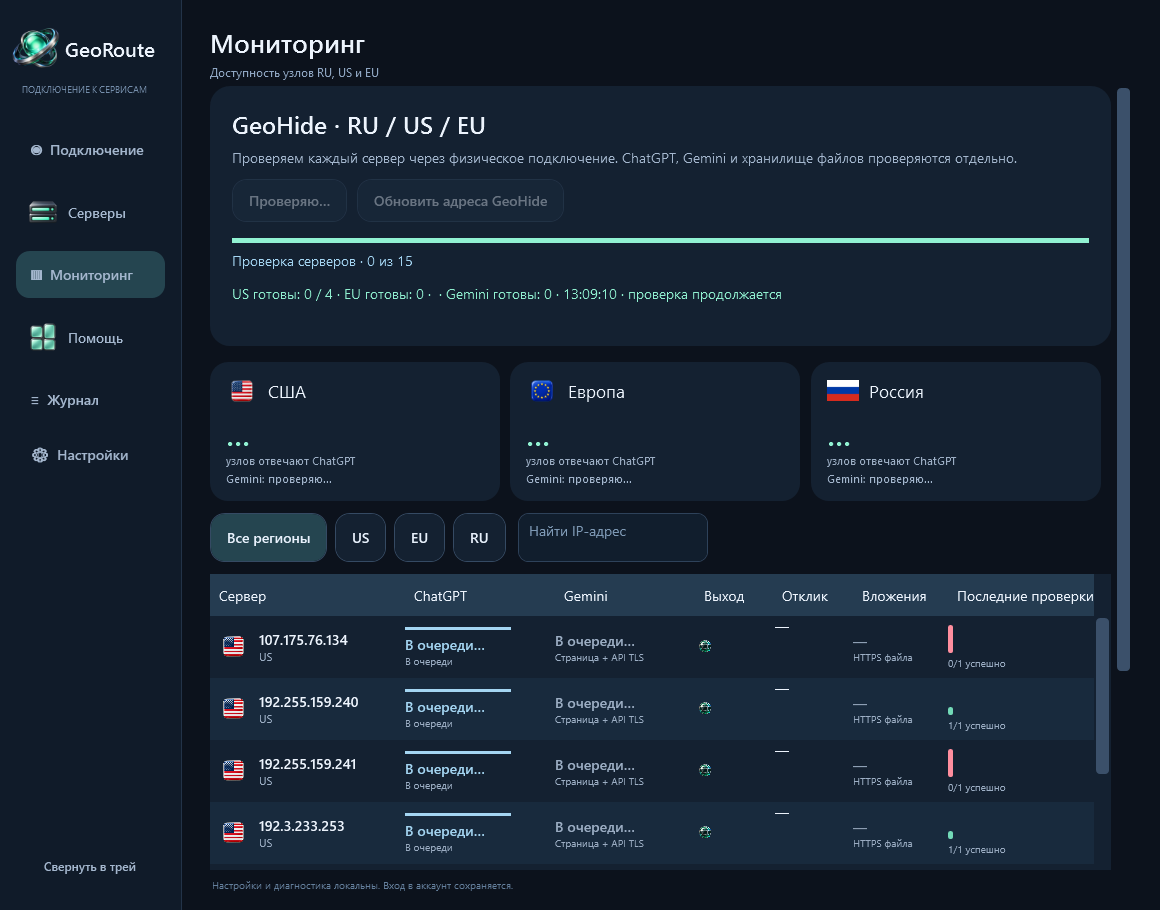
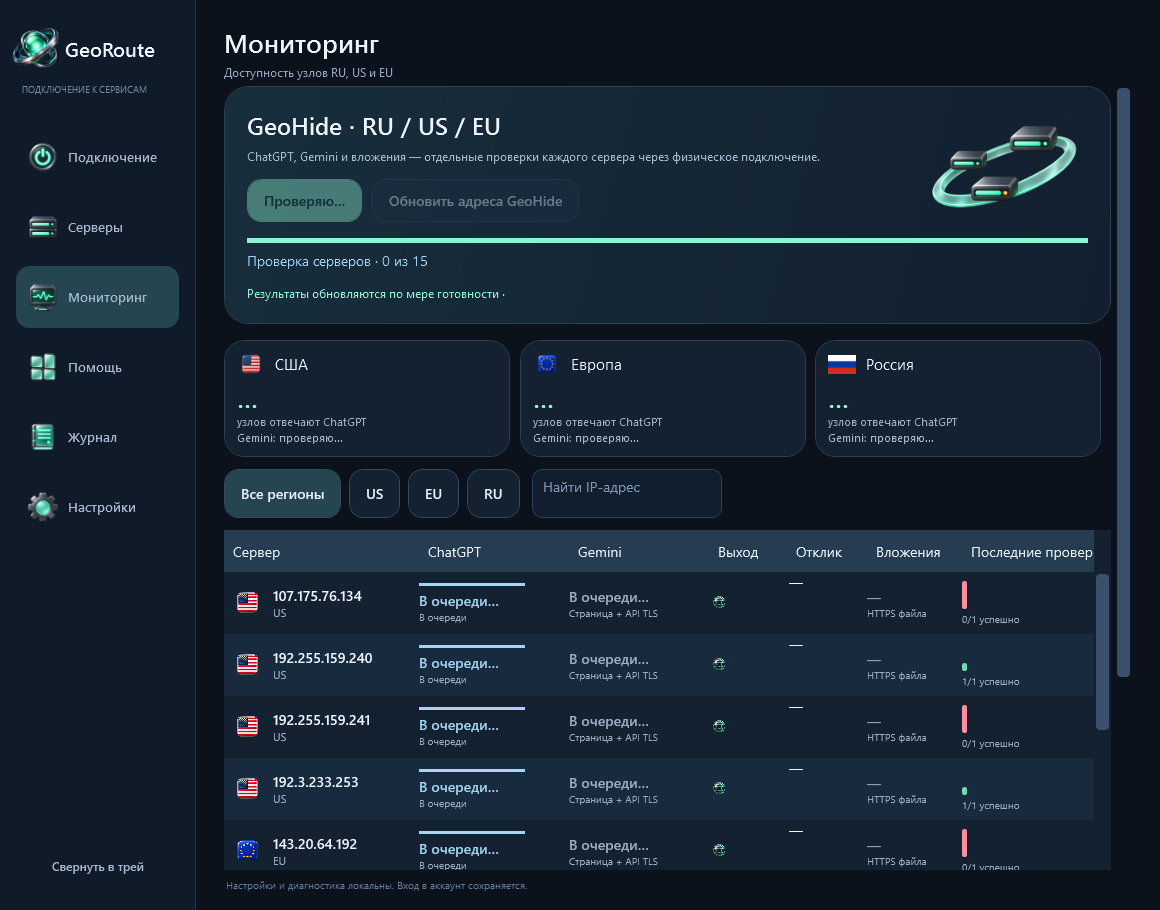
GeoRoute 0.4.0: Image Gen navigation assets and refined screens

diff --git a/clients/windows/_service/Window.xaml b/clients/windows/_service/Window.xaml
@@ -65,6 +65,7 @@
       <Setter Property="FontSize" Value="12" />
     </Style>
     <Style x:Key="NavButton" TargetType="Button" BasedOn="{StaticResource ActionButton}">
+      <Setter Property="FontSize" Value="13"/>
       <Setter Property="Background" Value="Transparent" />
       <Setter Property="BorderBrush" Value="Transparent" />
       <Setter Property="Foreground" Value="#A4B7CE" />
@@ -162,10 +163,35 @@
         </Setter.Value>
       </Setter>
     </Style>
+    <Style x:Key="PageCard" TargetType="Border">
+      <Setter Property="CornerRadius" Value="24"/><Setter Property="Padding" Value="22"/>
+      <Setter Property="BorderBrush" Value="#2A4256"/><Setter Property="BorderThickness" Value="1"/>
+      <Setter Property="Background"><Setter.Value><LinearGradientBrush StartPoint="0,0" EndPoint="1,1"><GradientStop Color="#182E3C" Offset="0"/><GradientStop Color="#121F30" Offset="1"/></LinearGradientBrush></Setter.Value></Setter>
+    </Style>
+    <Style x:Key="SettingsToggle" TargetType="CheckBox">
+      <Setter Property="Foreground" Value="#E1ECF7"/><Setter Property="FontSize" Value="13"/>
+      <Setter Property="Cursor" Value="Hand"/><Setter Property="Margin" Value="0,5"/>
+      <Setter Property="Template"><Setter.Value><ControlTemplate TargetType="CheckBox">
+        <Border x:Name="ToggleSurface" Background="#132332" BorderBrush="#2B4054" BorderThickness="1" CornerRadius="14" Padding="15,14">
+          <Grid><Grid.ColumnDefinitions><ColumnDefinition Width="*"/><ColumnDefinition Width="Auto"/></Grid.ColumnDefinitions>
+            <ContentPresenter VerticalAlignment="Center" Margin="0,0,16,0"/>
+            <Border x:Name="Track" Grid.Column="1" Width="44" Height="24" CornerRadius="12" Background="#35495C">
+              <Ellipse x:Name="Thumb" Width="16" Height="16" Margin="4" HorizontalAlignment="Left" Fill="#D9E8F6"/>
+            </Border>
+          </Grid>
+        </Border>
+        <ControlTemplate.Triggers>
+          <Trigger Property="IsChecked" Value="True"><Setter TargetName="Track" Property="Background" Value="#91F2D2"/><Setter TargetName="Thumb" Property="HorizontalAlignment" Value="Right"/><Setter TargetName="Thumb" Property="Fill" Value="#173A35"/></Trigger>
+          <Trigger Property="IsMouseOver" Value="True"><Setter TargetName="ToggleSurface" Property="BorderBrush" Value="#537D88"/></Trigger>
+          <Trigger Property="IsKeyboardFocused" Value="True"><Setter TargetName="ToggleSurface" Property="BorderBrush" Value="#91F2D2"/></Trigger>
+          <Trigger Property="IsEnabled" Value="False"><Setter TargetName="ToggleSurface" Property="Opacity" Value="0.45"/></Trigger>
+        </ControlTemplate.Triggers>
+      </ControlTemplate></Setter.Value></Setter>
+    </Style>
   </Window.Resources>
   <Grid x:Name="PageRoot" Background="#0C121C">
     <Grid.ColumnDefinitions>
-      <ColumnDefinition Width="182" />
+      <ColumnDefinition Width="196" />
       <ColumnDefinition Width="*" />
     </Grid.ColumnDefinitions>
     <Border Background="#101B29" BorderBrush="#233348" BorderThickness="0,0,1,0">
@@ -184,7 +210,15 @@
           <TextBlock Text="ПОДКЛЮЧЕНИЕ К СЕРВИСАМ" Foreground="#738CA9" FontSize="9" Margin="7,10,0,0" />
         </StackPanel>
         <StackPanel Grid.Row="1">
-          <Button x:Name="HomeNavButton" Style="{StaticResource NavButton}" Content="◉  Подключение" />
+          <Button x:Name="HomeNavButton" Style="{StaticResource NavButton}" AutomationProperties.Name="Подключение">
+            <StackPanel Orientation="Horizontal">
+              <Grid Width="34" Height="34" Margin="-4,0,8,0">
+                <TextBlock x:Name="HomeNavFallback" Text="◉" FontSize="20" HorizontalAlignment="Center" VerticalAlignment="Center"/>
+                <Image x:Name="HomeNavIcon" Width="34" Height="34"/>
+              </Grid>
+              <TextBlock Text="Подключение" VerticalAlignment="Center"/>
+            </StackPanel>
+          </Button>
           <Button x:Name="ServersNavButton" Style="{StaticResource NavButton}" AutomationProperties.Name="Список серверов">
             <StackPanel Orientation="Horizontal">
               <Grid Width="34" Height="34" Margin="-4,0,8,0">
@@ -194,7 +228,15 @@
               <TextBlock Text="Серверы" VerticalAlignment="Center" />
             </StackPanel>
           </Button>
-          <Button x:Name="MonitorNavButton" Style="{StaticResource NavButton}" Content="▥  Мониторинг" AutomationProperties.Name="Мониторинг серверов" />
+          <Button x:Name="MonitorNavButton" Style="{StaticResource NavButton}" AutomationProperties.Name="Мониторинг">
+            <StackPanel Orientation="Horizontal">
+              <Grid Width="34" Height="34" Margin="-4,0,8,0">
+                <TextBlock x:Name="MonitorNavFallback" Text="▥" FontSize="20" HorizontalAlignment="Center" VerticalAlignment="Center"/>
+                <Image x:Name="MonitorNavIcon" Width="34" Height="34"/>
+              </Grid>
+              <TextBlock Text="Мониторинг" VerticalAlignment="Center"/>
+            </StackPanel>
+          </Button>
           <Button x:Name="OverviewNavButton" Style="{StaticResource NavButton}" AutomationProperties.Name="Обзор подключения">
             <StackPanel Orientation="Horizontal">
               <Grid Width="34" Height="34" Margin="-4,0,8,0">
@@ -204,8 +246,24 @@
               <TextBlock Text="Помощь" VerticalAlignment="Center" />
             </StackPanel>
           </Button>
-          <Button x:Name="JournalNavButton" Style="{StaticResource NavButton}" Content="≡  Журнал" />
-          <Button x:Name="SettingsNavButton" Style="{StaticResource NavButton}" Content="⚙  Настройки" />
+          <Button x:Name="JournalNavButton" Style="{StaticResource NavButton}" AutomationProperties.Name="Журнал">
+            <StackPanel Orientation="Horizontal">
+              <Grid Width="34" Height="34" Margin="-4,0,8,0">
+                <TextBlock x:Name="JournalNavFallback" Text="≡" FontSize="20" HorizontalAlignment="Center" VerticalAlignment="Center"/>
+                <Image x:Name="JournalNavIcon" Width="34" Height="34"/>
+              </Grid>
+              <TextBlock Text="Журнал" VerticalAlignment="Center"/>
+            </StackPanel>
+          </Button>
+          <Button x:Name="SettingsNavButton" Style="{StaticResource NavButton}" AutomationProperties.Name="Настройки">
+            <StackPanel Orientation="Horizontal">
+              <Grid Width="34" Height="34" Margin="-4,0,8,0">
+                <TextBlock x:Name="SettingsNavFallback" Text="⚙" FontSize="20" HorizontalAlignment="Center" VerticalAlignment="Center"/>
+                <Image x:Name="SettingsNavIcon" Width="34" Height="34"/>
+              </Grid>
+              <TextBlock Text="Настройки" VerticalAlignment="Center"/>
+            </StackPanel>
+          </Button>
         </StackPanel>
         <StackPanel Grid.Row="3">
           <Button x:Name="HideToTrayButton" Content="Свернуть в трей" Style="{StaticResource QuietButton}" Margin="0,0,0,8" />
@@ -354,54 +412,58 @@
       </ScrollViewer>
       <ScrollViewer x:Name="GeoPage" Grid.Row="1" Grid.RowSpan="3" Visibility="Collapsed" VerticalScrollBarVisibility="Auto">
         <StackPanel Margin="0,0,4,20">
-          <Border Background="#142131" CornerRadius="20" Padding="22" Margin="0,0,0,16">
+          <Border Style="{StaticResource PageCard}" Margin="0,0,0,16">
             <StackPanel>
-              <TextBlock Text="GeoHide · RU / US / EU" FontSize="24" FontWeight="SemiBold" />
-              <TextBlock Text="Проверяем каждый сервер через физическое подключение. ChatGPT, Gemini и хранилище файлов проверяются отдельно." TextWrapping="Wrap" Foreground="#A4B7CE" Margin="0,8,0,12" />
-              <WrapPanel>
-                <Button x:Name="GeoCheck" Content="Проверить серверы" Style="{StaticResource ActionButton}" Margin="0,0,10,8" />
-                <Button x:Name="GeoRefresh" Content="Обновить адреса GeoHide" Style="{StaticResource ActionButton}" Margin="0,0,10,8" />
-              </WrapPanel>
-              <StackPanel x:Name="GeoProgressPanel" Visibility="Collapsed" Margin="0,8,0,6" AutomationProperties.LiveSetting="Polite">
-                <ProgressBar x:Name="GeoProgress" IsIndeterminate="True" Height="5" Foreground="#91F2D2" Background="#253C51" BorderThickness="0" />
-                <TextBlock x:Name="GeoProgressText" Text="Начинаю проверку…" Foreground="#A4D5F2" Margin="0,8,0,0" TextWrapping="Wrap" />
+              <Grid><Grid.ColumnDefinitions><ColumnDefinition Width="*"/><ColumnDefinition Width="175"/></Grid.ColumnDefinitions>
+                <StackPanel VerticalAlignment="Center">
+                  <TextBlock Text="GeoHide · RU / US / EU" FontSize="24" FontWeight="SemiBold"/>
+                  <TextBlock Text="ChatGPT, Gemini и вложения — отдельные проверки каждого сервера через физическое подключение." TextWrapping="Wrap" Foreground="#A4B7CE" Margin="0,8,12,15" FontSize="12"/>
+                  <WrapPanel>
+                    <Button x:Name="GeoCheck" Content="Проверить серверы" Style="{StaticResource ActionButton}" Background="#91F2D2" Foreground="#11372F" BorderBrush="#91F2D2" Margin="0,0,10,6"/>
+                    <Button x:Name="GeoRefresh" Content="Обновить адреса GeoHide" Style="{StaticResource ActionButton}" Margin="0,0,0,6"/>
+                  </WrapPanel>
+                </StackPanel>
+                <Image x:Name="GeoHeaderArt" Grid.Column="1" Height="112" Width="165" IsHitTestVisible="False" Margin="0,0,-6,0"/>
+              </Grid>
+              <StackPanel x:Name="GeoProgressPanel" Visibility="Collapsed" Margin="0,10,0,6" AutomationProperties.LiveSetting="Polite">
+                <ProgressBar x:Name="GeoProgress" IsIndeterminate="True" Height="5" Foreground="#91F2D2" Background="#253C51" BorderThickness="0"/>
+                <TextBlock x:Name="GeoProgressText" Text="Начинаю проверку…" Foreground="#A4D5F2" Margin="0,8,0,0" TextWrapping="Wrap"/>
               </StackPanel>
-              <TextBlock x:Name="GeoStatus" Text="Ожидание проверки" TextWrapping="Wrap" Foreground="#91F2D2" Margin="0,8,0,8" />
-              <TextBlock x:Name="GeoSourceStatus" Text="Списки: официальный репозиторий GeoHide; обновление раз в час" TextWrapping="Wrap" Foreground="#9CAEC4" FontSize="11" />
+              <TextBlock x:Name="GeoStatus" Text="Ожидание проверки" TextWrapping="Wrap" Foreground="#91F2D2" FontSize="12" Margin="0,10,0,0"/>
             </StackPanel>
           </Border>
           <UniformGrid Columns="3" Margin="0,0,0,12">
-            <Border Background="#142131" CornerRadius="18" Padding="16" Margin="0,0,10,0">
+            <Border BorderBrush="#2B4054" BorderThickness="1" Background="#142131" CornerRadius="20" Padding="12" Margin="0,0,10,0">
               <StackPanel>
                 <StackPanel Orientation="Horizontal">
-                  <Image x:Name="GeoFlagUS" Width="32" Height="26" Margin="0,0,10,0" />
-                  <TextBlock Text="США" FontSize="17" VerticalAlignment="Center" />
+                  <Image x:Name="GeoFlagUS" Width="28" Height="22" Margin="0,0,10,0" />
+                  <TextBlock Text="США" FontSize="15" VerticalAlignment="Center" />
                 </StackPanel>
-                <TextBlock x:Name="GeoCountUS" Text="—" FontSize="30" FontWeight="SemiBold" Foreground="#91F2D2" Margin="0,9,0,0" />
+                <TextBlock x:Name="GeoCountUS" Text="—" FontSize="26" FontWeight="SemiBold" Foreground="#91F2D2" Margin="0,4,0,0" />
                 <TextBlock Text="узлов отвечают ChatGPT" Foreground="#9CAEC4" FontSize="11" />
-              <TextBlock x:Name="GeoGeminiCountUS" Text="Gemini: нужна проверка" Foreground="#A4B7CE" FontSize="11" Margin="0,5,0,0" />
+              <TextBlock x:Name="GeoGeminiCountUS" Text="Gemini: нужна проверка" Foreground="#A4B7CE" FontSize="11" Margin="0,3,0,0" />
               </StackPanel>
             </Border>
-            <Border Background="#142131" CornerRadius="18" Padding="16" Margin="0,0,10,0">
+            <Border BorderBrush="#2B4054" BorderThickness="1" Background="#142131" CornerRadius="20" Padding="12" Margin="0,0,10,0">
               <StackPanel>
                 <StackPanel Orientation="Horizontal">
-                  <Image x:Name="GeoFlagEU" Width="32" Height="26" Margin="0,0,10,0" />
-                  <TextBlock Text="Европа" FontSize="17" VerticalAlignment="Center" />
+                  <Image x:Name="GeoFlagEU" Width="28" Height="22" Margin="0,0,10,0" />
+                  <TextBlock Text="Европа" FontSize="15" VerticalAlignment="Center" />
                 </StackPanel>
-                <TextBlock x:Name="GeoCountEU" Text="—" FontSize="30" FontWeight="SemiBold" Foreground="#91F2D2" Margin="0,9,0,0" />
+                <TextBlock x:Name="GeoCountEU" Text="—" FontSize="26" FontWeight="SemiBold" Foreground="#91F2D2" Margin="0,4,0,0" />
                 <TextBlock Text="узлов отвечают ChatGPT" Foreground="#9CAEC4" FontSize="11" />
-              <TextBlock x:Name="GeoGeminiCountEU" Text="Gemini: нужна проверка" Foreground="#A4B7CE" FontSize="11" Margin="0,5,0,0" />
+              <TextBlock x:Name="GeoGeminiCountEU" Text="Gemini: нужна проверка" Foreground="#A4B7CE" FontSize="11" Margin="0,3,0,0" />
               </StackPanel>
             </Border>
-            <Border Background="#142131" CornerRadius="18" Padding="16" Margin="0,0,10,0">
+            <Border BorderBrush="#2B4054" BorderThickness="1" Background="#142131" CornerRadius="20" Padding="12" Margin="0,0,10,0">
               <StackPanel>
                 <StackPanel Orientation="Horizontal">
-                  <Image x:Name="GeoFlagRU" Width="32" Height="26" Margin="0,0,10,0" />
-                  <TextBlock Text="Россия" FontSize="17" VerticalAlignment="Center" />
+                  <Image x:Name="GeoFlagRU" Width="28" Height="22" Margin="0,0,10,0" />
+                  <TextBlock Text="Россия" FontSize="15" VerticalAlignment="Center" />
                 </StackPanel>
-                <TextBlock x:Name="GeoCountRU" Text="—" FontSize="30" FontWeight="SemiBold" Foreground="#91F2D2" Margin="0,9,0,0" />
+                <TextBlock x:Name="GeoCountRU" Text="—" FontSize="26" FontWeight="SemiBold" Foreground="#91F2D2" Margin="0,4,0,0" />
                 <TextBlock Text="узлов отвечают ChatGPT" Foreground="#9CAEC4" FontSize="11" />
-              <TextBlock x:Name="GeoGeminiCountRU" Text="Gemini: нужна проверка" Foreground="#A4B7CE" FontSize="11" Margin="0,5,0,0" />
+              <TextBlock x:Name="GeoGeminiCountRU" Text="Gemini: нужна проверка" Foreground="#A4B7CE" FontSize="11" Margin="0,3,0,0" />
               </StackPanel>
             </Border>
           </UniformGrid>
@@ -498,6 +560,9 @@
             </DataGrid.Columns>
           </DataGrid>
           <TextBlock Text="Gemini: HTTPS страницы и API; ответ модели после входа проверяется отдельно. Зелёный — HTTPS отвечает · жёлтый — есть только TCP · красный — нет ответа. График: последние 24 реальные проверки; высота зелёного столбца — задержка до 2 секунд." TextWrapping="Wrap" Foreground="#9CAEC4" FontSize="11" Margin="0,10,0,0" />
+              <Expander Header="Источники и время обновления" Foreground="#8FA6BD" FontSize="11" Margin="0,10,0,0">
+                <TextBlock x:Name="GeoSourceStatus" Text="Официальные списки GeoHide; обновление раз в час" TextWrapping="Wrap" Foreground="#9CAEC4" FontSize="11" Margin="0,8,0,0"/>
+              </Expander>
           <Expander Header="Адреса US + EU · автоматический и ручной выбор" Foreground="#A4B7CE" Margin="0,20,0,0">
           <Border Background="#142131" BorderBrush="#345865" BorderThickness="1" CornerRadius="20" Padding="22" Margin="0,0,0,16">
             <StackPanel>
@@ -600,11 +665,23 @@
       <TextBlock Grid.Row="4" Text="Настройки и диагностика локальны. Вход в аккаунт сохраняется." Foreground="#647F9D" FontSize="10" Margin="2,9,0,0" />
       <ScrollViewer x:Name="SettingsPage" Grid.Row="1" Grid.RowSpan="3" Visibility="Collapsed" VerticalScrollBarVisibility="Auto">
         <StackPanel Margin="0,0,12,20">
-          <TextBlock Text="Настройки GeoRoute" TextWrapping="Wrap" FontSize="24" FontWeight="SemiBold" Margin="0,0,0,20" />
-          <CheckBox x:Name="StartWithWindows" Content="Открывать GeoRoute в трее при входе в Windows" Margin="0,0,0,18" FontSize="11" ToolTip="Запускать менеджер в трее после входа в Windows" />
-          <CheckBox x:Name="ReducedMotion" Content="Без анимаций" Margin="0,0,0,18" AutomationProperties.Name="Уменьшить движение интерфейса" ToolTip="Также учитываются системные настройки анимаций Windows" />
-          <Button x:Name="OpenLogButton" Content="Папка журналов ↗" Style="{StaticResource QuietButton}" HorizontalContentAlignment="Left" Margin="0,0,0,18" />
-          <TextBlock Text="Закрытие окна сворачивает приложение в трей. Выход останавливает мониторинг; уже применённые адреса сохраняются в Windows." TextWrapping="Wrap" Foreground="#9CAEC4" Margin="0,0,0,20" />
+          <Border Style="{StaticResource PageCard}" Margin="0,0,0,16">
+            <Grid><Grid.ColumnDefinitions><ColumnDefinition Width="*"/><ColumnDefinition Width="95"/></Grid.ColumnDefinitions>
+              <StackPanel VerticalAlignment="Center"><TextBlock Text="GeoRoute под вас" FontSize="24" FontWeight="SemiBold"/><TextBlock Text="Запуск, движение интерфейса и дополнительные возможности." TextWrapping="Wrap" Foreground="#A4B7CE" FontSize="13" Margin="0,9,16,0"/></StackPanel>
+              <Image x:Name="SettingsHeaderArt" Grid.Column="1" Width="82" Height="82" IsHitTestVisible="False"/>
+            </Grid>
+          </Border>
+          <Border Style="{StaticResource PageCard}" Margin="0,0,0,16">
+            <StackPanel><TextBlock Text="Приложение" FontSize="18" FontWeight="SemiBold" Margin="0,0,0,12"/>
+              <CheckBox x:Name="StartWithWindows" Style="{StaticResource SettingsToggle}" Content="Открывать GeoRoute в трее при входе в Windows" ToolTip="Запускать менеджер в трее после входа в Windows"/>
+              <CheckBox x:Name="ReducedMotion" Style="{StaticResource SettingsToggle}" Content="Уменьшить анимации" AutomationProperties.Name="Уменьшить движение интерфейса" ToolTip="Также учитываются системные настройки анимаций Windows"/>
+              <TextBlock Text="Закрытие окна сворачивает GeoRoute в трей. Полный выход останавливает мониторинг, а применённые адреса сохраняются в Windows." TextWrapping="Wrap" Foreground="#9CAEC4" FontSize="12" Margin="2,13,2,0"/>
+            </StackPanel>
+          </Border>
+          <Border Style="{StaticResource PageCard}" Margin="0,0,0,16">
+            <StackPanel><TextBlock Text="Журналы и поддержка" FontSize="18" FontWeight="SemiBold"/><TextBlock Text="История действий помогает понять, что произошло с подключением." TextWrapping="Wrap" Foreground="#9CAEC4" FontSize="12" Margin="0,7,0,12"/><Button x:Name="OpenLogButton" Content="Открыть папку журналов ↗" Style="{StaticResource ActionButton}" HorizontalAlignment="Left"/></StackPanel>
+          </Border>
+          <Border Style="{StaticResource PageCard}" Margin="0,0,0,16">
           <Expander Header="Прокси, NextDNS и технические сведения" Foreground="#A4B7CE" Margin="0,10,0,20">
             <StackPanel Margin="0,14,0,0">
               <Button x:Name="HttpProxyButton" Content="US-прокси…" Style="{StaticResource QuietButton}" Margin="0,0,0,12" FontSize="12" ToolTip="Настройка настольного ChatGPT / Dot" />
@@ -615,11 +692,19 @@
               <TextBlock x:Name="LastReadText" Text="" Foreground="#667F9D" FontSize="11" HorizontalAlignment="Right" Margin="0,0,0,12" />
             </StackPanel>
           </Expander>
-          <Button x:Name="ExitManagerButton" Content="Выйти из GeoRoute" Style="{StaticResource QuietButton}" Margin="0,0,0,8" FontSize="11" ToolTip="Завершить менеджер. Настройки DNS и hosts сохранятся." />
+          </Border>
+          <Button x:Name="ExitManagerButton" Content="Выйти из GeoRoute" Style="{StaticResource QuietButton}" Foreground="#E8AEA8" HorizontalAlignment="Left" Margin="0,0,0,8" ToolTip="Завершить менеджер. Настройки DNS и hosts сохранятся."/>
         </StackPanel>
       </ScrollViewer>
       <Grid x:Name="JournalPage" Grid.Row="1" Grid.RowSpan="3" Visibility="Collapsed">
-        <Border x:Name="JournalCard" Background="#101C2B" BorderBrush="#2A3F56" BorderThickness="1" CornerRadius="22">
+        <Grid.RowDefinitions><RowDefinition Height="Auto"/><RowDefinition Height="*"/></Grid.RowDefinitions>
+        <Border Style="{StaticResource PageCard}" Margin="0,0,0,16" Padding="20,15">
+          <Grid><Grid.ColumnDefinitions><ColumnDefinition Width="*"/><ColumnDefinition Width="85"/></Grid.ColumnDefinitions>
+            <StackPanel VerticalAlignment="Center"><TextBlock Text="Что происходит с подключением" FontSize="22" FontWeight="SemiBold"/><TextBlock Text="Действия, проверки и ошибки — в одном месте. Используйте фильтр или поиск." TextWrapping="Wrap" Foreground="#A4B7CE" FontSize="12" Margin="0,8,16,0"/></StackPanel>
+            <Image x:Name="JournalHeaderArt" Grid.Column="1" Width="70" Height="70" IsHitTestVisible="False"/>
+          </Grid>
+        </Border>
+        <Border Grid.Row="1" x:Name="JournalCard" Background="#101C2B" BorderBrush="#2A3F56" BorderThickness="1" CornerRadius="22">
           <Grid>
             <Grid.RowDefinitions>
               <RowDefinition Height="49" />

diff --git a/clients/windows/_service/ImportDialog.xaml b/clients/windows/_service/ImportDialog.xaml
@@ -2,20 +2,28 @@
         Title="Добавить профиль — GeoRoute" Width="640" Height="730" MinWidth="520" MinHeight="480" WindowStartupLocation="CenterOwner"
         Background="#0F1825" Foreground="#EEF4FC" FontFamily="Segoe UI" FontSize="14" ShowInTaskbar="False" UseLayoutRounding="True">
   <Window.Resources>
-    <Style TargetType="TextBox"><Setter Property="Background" Value="#18283B"/><Setter Property="Foreground" Value="#EEF4FC"/><Setter Property="BorderBrush" Value="#3D536C"/><Setter Property="BorderThickness" Value="1"/><Setter Property="Padding" Value="11,8"/><Setter Property="VerticalContentAlignment" Value="Center"/><Setter Property="CaretBrush" Value="#91F2D2"/></Style>
+    <Style TargetType="TextBox">
+      <Setter Property="Background" Value="#172A3C"/><Setter Property="Foreground" Value="#EEF4FC"/><Setter Property="BorderBrush" Value="#3D536C"/><Setter Property="Padding" Value="12,8"/><Setter Property="Height" Value="44"/><Setter Property="VerticalContentAlignment" Value="Center"/><Setter Property="CaretBrush" Value="#91F2D2"/>
+      <Setter Property="Template"><Setter.Value><ControlTemplate TargetType="TextBox">
+        <Border x:Name="Field" Background="{TemplateBinding Background}" BorderBrush="{TemplateBinding BorderBrush}" BorderThickness="1" CornerRadius="12"><ScrollViewer x:Name="PART_ContentHost"/></Border>
+        <ControlTemplate.Triggers><Trigger Property="IsKeyboardFocused" Value="True"><Setter TargetName="Field" Property="BorderBrush" Value="#91F2D2"/></Trigger></ControlTemplate.Triggers>
+      </ControlTemplate></Setter.Value></Setter>
+    </Style>
     <Style TargetType="ComboBoxItem"><Setter Property="Background" Value="#18283B"/><Setter Property="Foreground" Value="#EEF4FC"/><Setter Property="Padding" Value="10,8"/><Style.Triggers><Trigger Property="IsHighlighted" Value="True"><Setter Property="Background" Value="#2E4B60"/></Trigger></Style.Triggers></Style>
     <Style TargetType="ComboBox"><Setter Property="Foreground" Value="#EEF4FC"/><Setter Property="Background" Value="#18283B"/><Setter Property="BorderBrush" Value="#3D536C"/><Setter Property="Template"><Setter.Value><ControlTemplate TargetType="ComboBox"><Grid>
-      <Border Background="{TemplateBinding Background}" BorderBrush="{TemplateBinding BorderBrush}" BorderThickness="1" CornerRadius="5"><Grid><ContentPresenter Content="{TemplateBinding SelectionBoxItem}" Margin="11,8,28,8" VerticalAlignment="Center"/><TextBlock Text="⌄" HorizontalAlignment="Right" VerticalAlignment="Center" Margin="0,0,10,0" Foreground="#91F2D2"/></Grid></Border>
+      <Border Background="{TemplateBinding Background}" BorderBrush="{TemplateBinding BorderBrush}" BorderThickness="1" CornerRadius="12"><Grid><ContentPresenter Content="{TemplateBinding SelectionBoxItem}" Margin="11,8,28,8" VerticalAlignment="Center"/><TextBlock Text="⌄" HorizontalAlignment="Right" VerticalAlignment="Center" Margin="0,0,10,0" Foreground="#91F2D2"/></Grid></Border>
       <ToggleButton Focusable="False" IsChecked="{Binding IsDropDownOpen, RelativeSource={RelativeSource TemplatedParent}, Mode=TwoWay}"><ToggleButton.Template><ControlTemplate><Border Background="Transparent"/></ControlTemplate></ToggleButton.Template></ToggleButton>
       <Popup IsOpen="{TemplateBinding IsDropDownOpen}" Placement="Bottom" AllowsTransparency="True" Focusable="False" PopupAnimation="None"><Border Background="#18283B" BorderBrush="#3D536C" BorderThickness="1" MinWidth="190" MaxHeight="250"><ScrollViewer><ItemsPresenter KeyboardNavigation.DirectionalNavigation="Contained"/></ScrollViewer></Border></Popup>
     </Grid></ControlTemplate></Setter.Value></Setter></Style>
   </Window.Resources>
   <Grid Margin="26" Background="#0F1825">
     <Grid.RowDefinitions><RowDefinition Height="76"/><RowDefinition Height="*"/><RowDefinition Height="Auto"/></Grid.RowDefinitions>
+    <Border Background="#152B38" BorderBrush="#2B4557" BorderThickness="1" CornerRadius="18" Padding="10,6" Margin="0,0,0,8">
     <Grid><Grid.ColumnDefinitions><ColumnDefinition Width="*"/><ColumnDefinition Width="Auto"/></Grid.ColumnDefinitions>
       <StackPanel Orientation="Horizontal"><Image x:Name="DialogImportIcon" Width="52" Height="52" Margin="0,0,12,0"/><StackPanel VerticalAlignment="Center"><TextBlock Text="Добавить профиль" FontSize="24" FontWeight="SemiBold"/><TextBlock Text="IP, страна и сервис — файл создадим сами" Foreground="#9CAEC4" FontSize="13" Margin="0,6,0,0"/></StackPanel></StackPanel>
       <Button Grid.Column="1" x:Name="ImportHelpButton" Content="?" Width="38" Height="38" FontSize="20" VerticalAlignment="Center" ToolTip="Как добавить профиль" AutomationProperties.Name="Инструкция по добавлению профиля"/>
     </Grid>
+    </Border>
     <ScrollViewer Grid.Row="1" VerticalScrollBarVisibility="Auto" HorizontalScrollBarVisibility="Disabled">
       <StackPanel Margin="0,0,10,10">
         <StackPanel Orientation="Horizontal" Margin="0,6,0,20">

diff --git a/clients/windows/_service/NextDNS.Launcher.cs b/clients/windows/_service/NextDNS.Launcher.cs
@@ -15,8 +15,8 @@ using System.Security.Principal;
 [assembly: AssemblyTitle("GeoRoute")]
 [assembly: AssemblyDescription("GeoRoute — GeoHide profiles and monitoring")]
 [assembly: AssemblyProduct("GeoRoute")]
-[assembly: AssemblyVersion("0.3.2.0")]
-[assembly: AssemblyFileVersion("0.3.2.0")]
+[assembly: AssemblyVersion("0.4.0.0")]
+[assembly: AssemblyFileVersion("0.4.0.0")]
 
 namespace NextDNS.Desktop
 {

diff --git a/docs/design/visual-refresh-v1.md b/docs/design/visual-refresh-v1.md
@@ -1,0 +1,19 @@
+# GeoRoute — визуальное обновление v1
+
+Дата: 2026-11-05. Генерация: встроенный **image_gen.imagegen**, без API/CLI fallback.
+
+## Исходники и промпты
+
+- [Полный набор промптов](imagegen-prompts-v1.json), включая назначение и референсы.
+- [Референс интерфейса Image Gen](georoute-design-reference-v1.png). Его подписи и показатели иллюстративны; это не снимок работающего приложения и не источник сетевых результатов.
+- Рабочие PNG в [`clients/windows/_service/assets/ui`](../../clients/windows/_service/assets/ui): `nav-connect-v1.png`, `nav-monitor-v1.png`, `nav-journal-v1.png`, `nav-settings-v1.png`, `network-orbit-v1.png`.
+
+Четыре иконки сохранены в исходном разрешении 1254 × 1254; иллюстрация серверов — 1536 × 1024. У всех пяти файлов настоящая прозрачность. Изображения скопированы без перерисовки, вырезания деталей, JPEG-компрессии или уменьшения исходника. WPF отображает их с HighQuality scaling; исходники подходят для экранов с повышенным DPI.
+
+## Реализация
+
+Референс перенесён в нативные элементы WPF: рамки и мягкие градиенты карточек, акцентные кнопки, закруглённые поля и фокус ввода. На боковой панели используются настоящие сгенерированные PNG вместо текстовых символов. Для журналов и настроек повторяются те же материалы и иконки; мониторинг получает отдельную компактную иллюстрацию справа от управления проверкой.
+
+Таблица и состояния серверов продолжают получать реальные результаты. Графический референс не используется как фон или замена работающим контролам. Новые переключатели сохраняют семантику CheckBox, клавиатурный фокус и старые обработчики. Плавное появление страницы отключается вместе с остальными анимациями при соответствующей настройке.
+
+Проверка: отрисованные страницы при 1160 × 910 и 980 × 680; WPF smoke для страниц, диалога профиля и справки; проверка ZIP и запуск portable EXE. Декоративные изображения не подтверждают доступность сервиса.

diff --git a/docs/releases/v0.4.0.md b/docs/releases/v0.4.0.md
@@ -1,0 +1,12 @@
+# GeoRoute 0.4.0
+
+Новый облик экранов и настоящие Image Gen ассеты:
+
+- Четыре прозрачные иконки бокового меню: подключение, мониторинг, журнал и настройки.
+- Сгенерированная иллюстрация серверов в мониторинге, компактные карточки регионов и меньше технического шума над таблицей.
+- Настройки разбиты на понятные блоки с переключателями, журнал получил отдельный заголовок, форма профиля — скруглённые поля с подсветкой фокуса.
+- Плавное появление страниц учитывает настройку уменьшения анимаций.
+
+Исходные PNG сохранены в высоком разрешении. [Промпты, референс и сведения об ассетах](https://github.com/Georgy-hook/GeoRoute/blob/main/docs/design/visual-refresh-v1.md).
+
+Скачайте **GeoRoute-Windows-x64-0.4.0.zip**, распакуйте всю папку и запустите **GeoRoute.exe**. При обновлении сохраните свои профили и настройки по [инструкции](https://github.com/Georgy-hook/GeoRoute/blob/main/docs/INSTALL.ru.md). Новое оформление не переключает маршруты и не изменяет настройки подключения.

diff --git a/README.md b/README.md
@@ -8,7 +8,7 @@
 
 ## Начать пользоваться
 
-1. На странице релиза скачайте **GeoRoute-Windows-x64-0.3.2.zip**. «Source code» скачивать не нужно.
+1. На странице релиза скачайте **GeoRoute-Windows-x64-0.4.0.zip**. «Source code» скачивать не нужно.
 2. Нажмите на ZIP правой кнопкой → **Извлечь всё**. Сохраните всю папку, например в `Документы\GeoRoute`.
 3. Откройте **GeoRoute.exe**. Устанавливать Python или Java не требуется.
 4. Подождите первую проверку серверов. В разделе **Серверы** выберите доступный маршрут.
@@ -24,6 +24,8 @@
 - **Помощь** — объяснение DNS-кеша и помощник при проблемах с GIF, видео и ZIP. Подробная диагностика свёрнута.
 - **Журнал** — история действий отдельно от главного экрана.
 - **Настройки** — запуск в трее, анимации и дополнительные возможности.
+
+Иконки и оформление обновлены с помощью Image Gen: [ассеты, промпты и дизайн-референс](docs/design/visual-refresh-v1.md).
 
 ## Как добавить собственный профиль
 

diff --git a/docs/DEVELOPMENT.md b/docs/DEVELOPMENT.md
@@ -4,10 +4,10 @@ Windows client source: `clients/windows/_service`. PowerShell scripts require Wi
 
 ```powershell
 .\clients\windows\tests\Run-Tests.ps1 -PythonExe python.exe
-.\clients\windows\Build.ps1 -PythonExe python.exe -Version 0.3.2
+.\clients\windows\Build.ps1 -PythonExe python.exe -Version 0.4.0
 ```
 
-The build produces `clients/windows/dist/GeoRoute-Windows-x64-0.3.2.zip` and its SHA-256. Package verification rejects private user paths, account-specific NextDNS URLs, runtime state/logs/backups, and inconsistent runtime hashes.
+The build produces `clients/windows/dist/GeoRoute-Windows-x64-0.4.0.zip` and its SHA-256. Package verification rejects private user paths, account-specific NextDNS URLs, runtime state/logs/backups, and inconsistent runtime hashes.
 
 `GeoAvailability.ps1` owns regional eligibility, profile requirements and provider-list replacement. `GeoHide.ps1` writes prepared profiles; `Profiles.ps1` is the existing elevated hosts apply/restore boundary. `Home.ps1` distinguishes off/checking/ready/unavailable using actual managed hosts plus current probe evidence. Ordinary hosts mode does not require wildcard NextDNS rewrite checks. The optional bridge retains its separate diagnostics.
 

diff --git a/CHANGELOG.md b/CHANGELOG.md
@@ -1,5 +1,13 @@
 # Changelog
 
+## 0.4.0 — 2026-11-05
+
+- Use four new Image Gen transparent navigation icons for Connect, Monitoring, Journal and Settings, keeping full-resolution lossless PNG sources.
+- Redesign Monitoring with a generated server-orbit spot image, compact region cards and quieter metadata. Keep live progress and per-server loading behavior.
+- Group Settings into rounded cards with keyboard-accessible toggles; add an illustrated Journal header and rounded profile-form fields.
+- Add a short page fade that respects reduced-motion preferences and expand WPF previews to cover the new screens.
+- Preserve original generated artwork and design prompts in the repository; keep the generated UI mockup separate from actual runtime controls.
+
 ## 0.3.2 — 2026-11-05
 
 - Create a custom profile directly from a public IP, country and service (ChatGPT or Gemini); no user-authored hosts file required.

diff --git a/docs/INSTALL.ru.md b/docs/INSTALL.ru.md
@@ -2,7 +2,7 @@
 
 ## 1. Скачать
 
-Откройте [готовые релизы](https://github.com/Georgy-hook/GeoRoute/releases/latest) и скачайте файл **GeoRoute-Windows-x64-0.3.2.zip** в разделе Assets. Архивы **Source code** предназначены для разработчиков.
+Откройте [готовые релизы](https://github.com/Georgy-hook/GeoRoute/releases/latest) и скачайте файл **GeoRoute-Windows-x64-0.4.0.zip** в разделе Assets. Архивы **Source code** предназначены для разработчиков.
 
 ## 2. Распаковать
 
